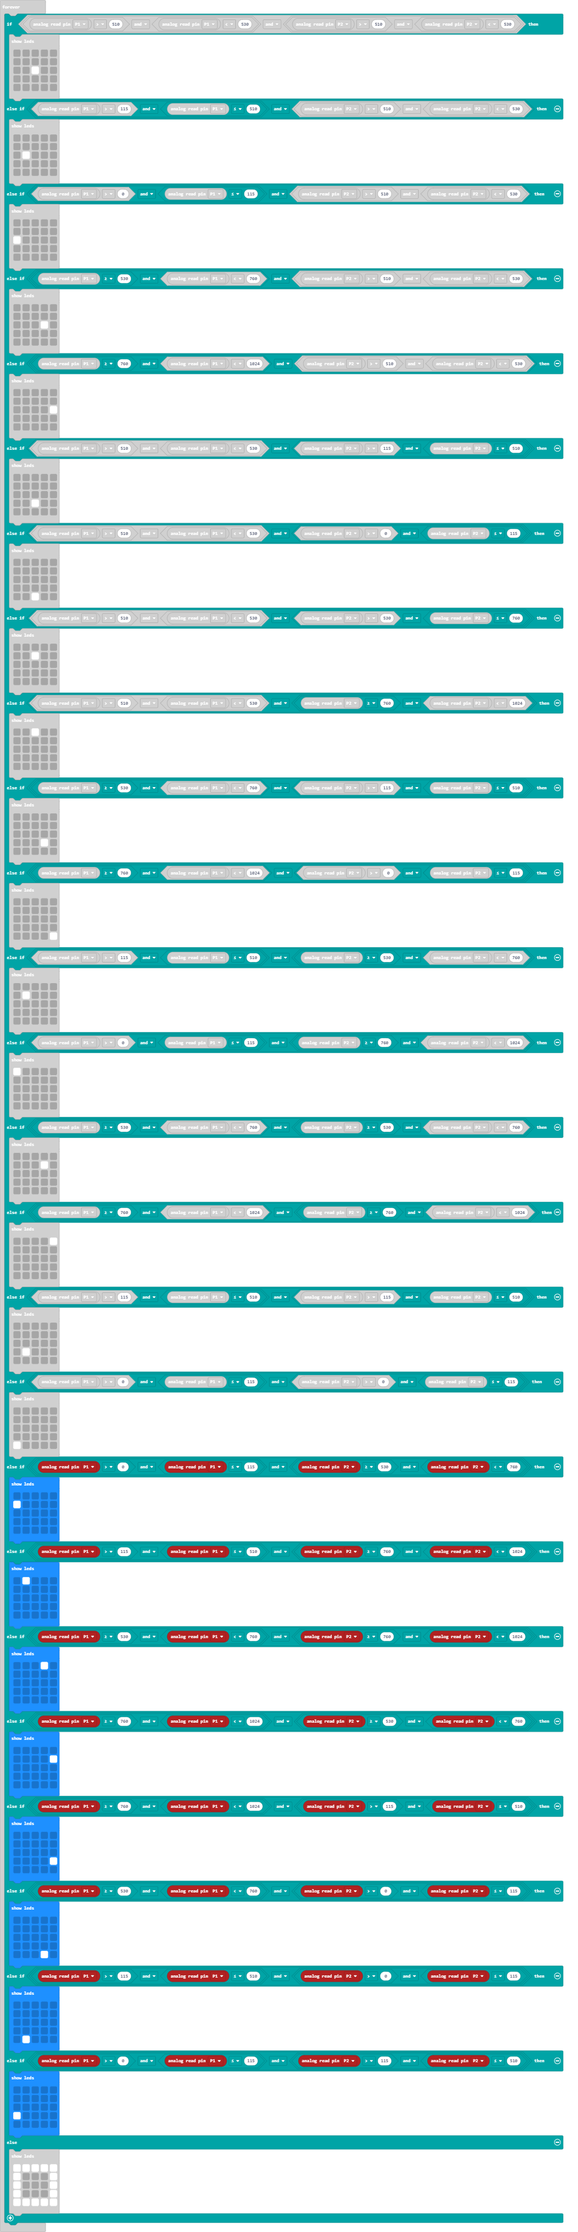
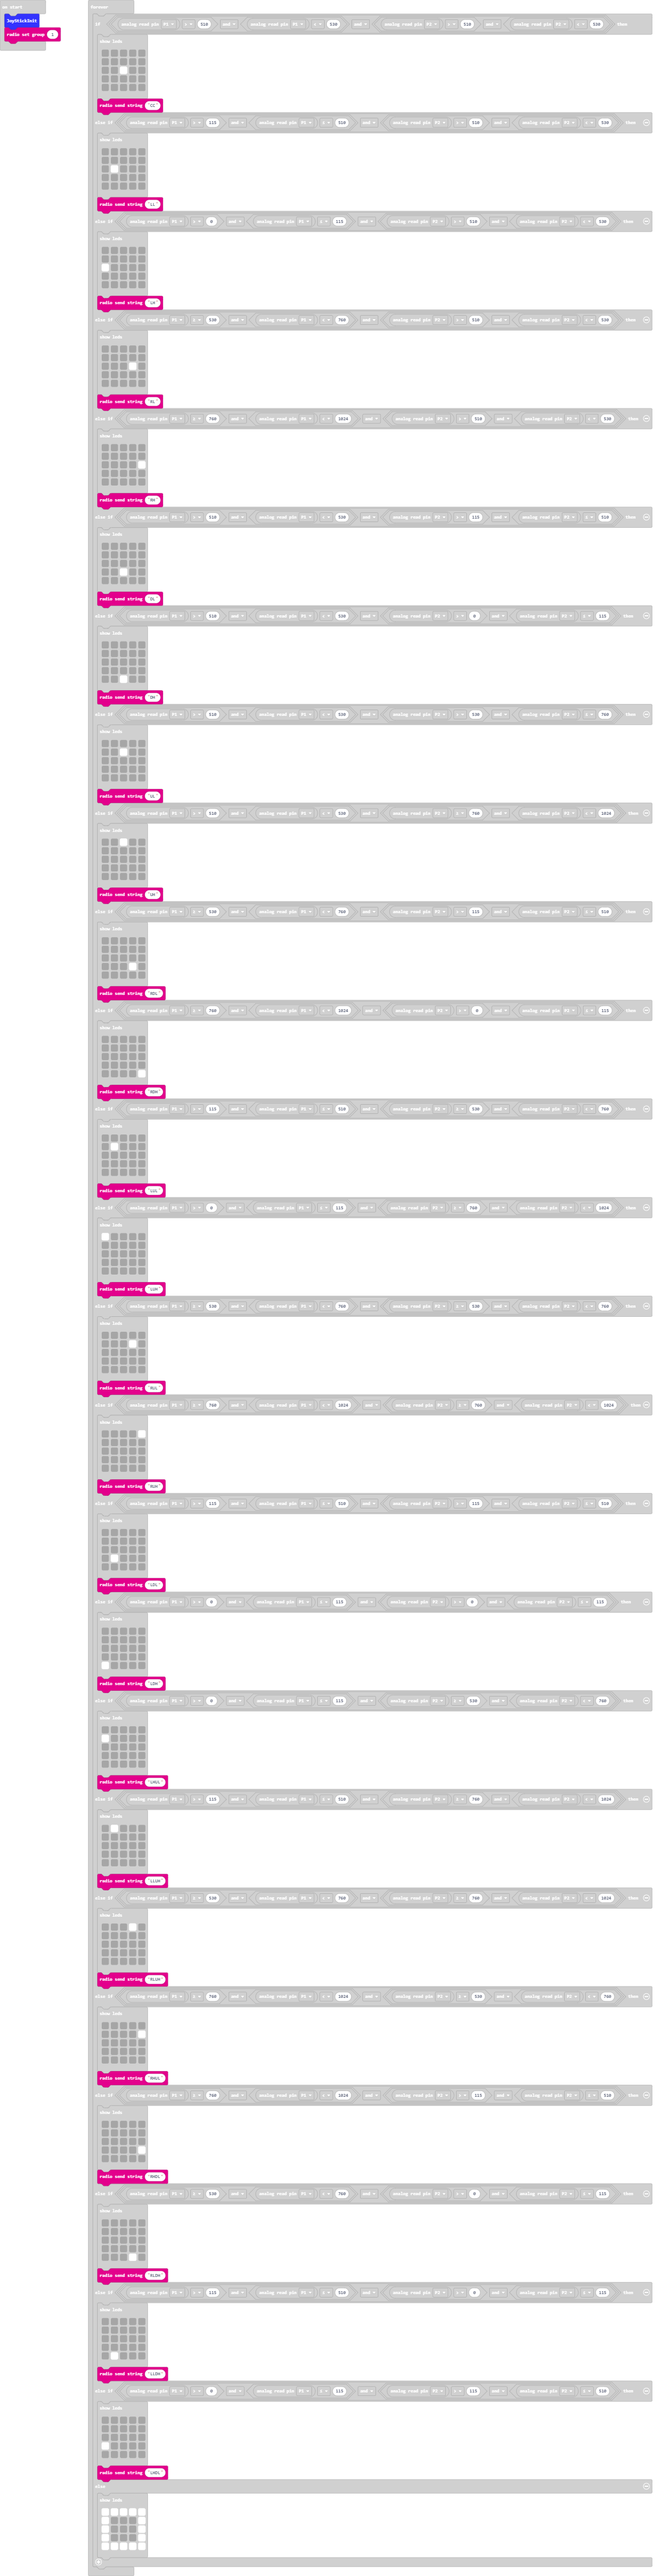
BT Joystick position messages added.

diff --git a/main.ts b/main.ts
@@ -34,6 +34,7 @@ WSJoyStick.onKey(KEY.C, function () {
     WSJoyStick.PlayMusic(262, music.beat(BeatFraction.Sixteenth))
 })
 WSJoyStick.JoyStickInit()
+radio.setGroup(1)
 basic.forever(function () {
     if (pins.analogReadPin(AnalogPin.P1) > 510 && pins.analogReadPin(AnalogPin.P1) < 530 && (pins.analogReadPin(AnalogPin.P2) > 510 && pins.analogReadPin(AnalogPin.P2) < 530)) {
         basic.showLeds(`
@@ -43,6 +44,7 @@ basic.forever(function () {
             . . . . .
             . . . . .
             `)
+        radio.sendString("CC")
     } else if (pins.analogReadPin(AnalogPin.P1) > 115 && pins.analogReadPin(AnalogPin.P1) <= 510 && (pins.analogReadPin(AnalogPin.P2) > 510 && pins.analogReadPin(AnalogPin.P2) < 530)) {
         basic.showLeds(`
             . . . . .
@@ -51,6 +53,7 @@ basic.forever(function () {
             . . . . .
             . . . . .
             `)
+        radio.sendString("LL")
     } else if (pins.analogReadPin(AnalogPin.P1) > 0 && pins.analogReadPin(AnalogPin.P1) <= 115 && (pins.analogReadPin(AnalogPin.P2) > 510 && pins.analogReadPin(AnalogPin.P2) < 530)) {
         basic.showLeds(`
             . . . . .
@@ -59,6 +62,7 @@ basic.forever(function () {
             . . . . .
             . . . . .
             `)
+        radio.sendString("LH")
     } else if (pins.analogReadPin(AnalogPin.P1) >= 530 && pins.analogReadPin(AnalogPin.P1) < 760 && (pins.analogReadPin(AnalogPin.P2) > 510 && pins.analogReadPin(AnalogPin.P2) < 530)) {
         basic.showLeds(`
             . . . . .
@@ -67,6 +71,7 @@ basic.forever(function () {
             . . . . .
             . . . . .
             `)
+        radio.sendString("RL")
     } else if (pins.analogReadPin(AnalogPin.P1) >= 760 && pins.analogReadPin(AnalogPin.P1) < 1024 && (pins.analogReadPin(AnalogPin.P2) > 510 && pins.analogReadPin(AnalogPin.P2) < 530)) {
         basic.showLeds(`
             . . . . .
@@ -75,6 +80,7 @@ basic.forever(function () {
             . . . . .
             . . . . .
             `)
+        radio.sendString("RH")
     } else if (pins.analogReadPin(AnalogPin.P1) > 510 && pins.analogReadPin(AnalogPin.P1) < 530 && (pins.analogReadPin(AnalogPin.P2) > 115 && pins.analogReadPin(AnalogPin.P2) <= 510)) {
         basic.showLeds(`
             . . . . .
@@ -83,6 +89,7 @@ basic.forever(function () {
             . . # . .
             . . . . .
             `)
+        radio.sendString("DL")
     } else if (pins.analogReadPin(AnalogPin.P1) > 510 && pins.analogReadPin(AnalogPin.P1) < 530 && (pins.analogReadPin(AnalogPin.P2) > 0 && pins.analogReadPin(AnalogPin.P2) <= 115)) {
         basic.showLeds(`
             . . . . .
@@ -91,6 +98,7 @@ basic.forever(function () {
             . . . . .
             . . # . .
             `)
+        radio.sendString("DH")
     } else if (pins.analogReadPin(AnalogPin.P1) > 510 && pins.analogReadPin(AnalogPin.P1) < 530 && (pins.analogReadPin(AnalogPin.P2) > 530 && pins.analogReadPin(AnalogPin.P2) <= 760)) {
         basic.showLeds(`
             . . . . .
@@ -99,6 +107,7 @@ basic.forever(function () {
             . . . . .
             . . . . .
             `)
+        radio.sendString("UL")
     } else if (pins.analogReadPin(AnalogPin.P1) > 510 && pins.analogReadPin(AnalogPin.P1) < 530 && (pins.analogReadPin(AnalogPin.P2) >= 760 && pins.analogReadPin(AnalogPin.P2) < 1024)) {
         basic.showLeds(`
             . . # . .
@@ -107,6 +116,7 @@ basic.forever(function () {
             . . . . .
             . . . . .
             `)
+        radio.sendString("UH")
     } else if (pins.analogReadPin(AnalogPin.P1) >= 530 && pins.analogReadPin(AnalogPin.P1) < 760 && (pins.analogReadPin(AnalogPin.P2) > 115 && pins.analogReadPin(AnalogPin.P2) <= 510)) {
         basic.showLeds(`
             . . . . .
@@ -115,6 +125,7 @@ basic.forever(function () {
             . . . # .
             . . . . .
             `)
+        radio.sendString("RDL")
     } else if (pins.analogReadPin(AnalogPin.P1) >= 760 && pins.analogReadPin(AnalogPin.P1) < 1024 && (pins.analogReadPin(AnalogPin.P2) > 0 && pins.analogReadPin(AnalogPin.P2) <= 115)) {
         basic.showLeds(`
             . . . . .
@@ -123,6 +134,7 @@ basic.forever(function () {
             . . . . .
             . . . . #
             `)
+        radio.sendString("RDH")
     } else if (pins.analogReadPin(AnalogPin.P1) > 115 && pins.analogReadPin(AnalogPin.P1) <= 510 && (pins.analogReadPin(AnalogPin.P2) >= 530 && pins.analogReadPin(AnalogPin.P2) < 760)) {
         basic.showLeds(`
             . . . . .
@@ -131,6 +143,7 @@ basic.forever(function () {
             . . . . .
             . . . . .
             `)
+        radio.sendString("LUL")
     } else if (pins.analogReadPin(AnalogPin.P1) > 0 && pins.analogReadPin(AnalogPin.P1) <= 115 && (pins.analogReadPin(AnalogPin.P2) >= 760 && pins.analogReadPin(AnalogPin.P2) < 1024)) {
         basic.showLeds(`
             # . . . .
@@ -139,6 +152,7 @@ basic.forever(function () {
             . . . . .
             . . . . .
             `)
+        radio.sendString("LUH")
     } else if (pins.analogReadPin(AnalogPin.P1) >= 530 && pins.analogReadPin(AnalogPin.P1) < 760 && (pins.analogReadPin(AnalogPin.P2) >= 530 && pins.analogReadPin(AnalogPin.P2) < 760)) {
         basic.showLeds(`
             . . . . .
@@ -147,6 +161,7 @@ basic.forever(function () {
             . . . . .
             . . . . .
             `)
+        radio.sendString("RUL")
     } else if (pins.analogReadPin(AnalogPin.P1) >= 760 && pins.analogReadPin(AnalogPin.P1) < 1024 && (pins.analogReadPin(AnalogPin.P2) >= 760 && pins.analogReadPin(AnalogPin.P2) < 1024)) {
         basic.showLeds(`
             . . . . #
@@ -155,6 +170,7 @@ basic.forever(function () {
             . . . . .
             . . . . .
             `)
+        radio.sendString("RUH")
     } else if (pins.analogReadPin(AnalogPin.P1) > 115 && pins.analogReadPin(AnalogPin.P1) <= 510 && (pins.analogReadPin(AnalogPin.P2) > 115 && pins.analogReadPin(AnalogPin.P2) <= 510)) {
         basic.showLeds(`
             . . . . .
@@ -163,6 +179,7 @@ basic.forever(function () {
             . # . . .
             . . . . .
             `)
+        radio.sendString("LDL")
     } else if (pins.analogReadPin(AnalogPin.P1) > 0 && pins.analogReadPin(AnalogPin.P1) <= 115 && (pins.analogReadPin(AnalogPin.P2) > 0 && pins.analogReadPin(AnalogPin.P2) <= 115)) {
         basic.showLeds(`
             . . . . .
@@ -171,6 +188,7 @@ basic.forever(function () {
             . . . . .
             # . . . .
             `)
+        radio.sendString("LDH")
     } else if (pins.analogReadPin(AnalogPin.P1) > 0 && pins.analogReadPin(AnalogPin.P1) <= 115 && (pins.analogReadPin(AnalogPin.P2) >= 530 && pins.analogReadPin(AnalogPin.P2) < 760)) {
         basic.showLeds(`
             . . . . .
@@ -179,6 +197,7 @@ basic.forever(function () {
             . . . . .
             . . . . .
             `)
+        radio.sendString("LHUL")
     } else if (pins.analogReadPin(AnalogPin.P1) > 115 && pins.analogReadPin(AnalogPin.P1) <= 510 && (pins.analogReadPin(AnalogPin.P2) >= 760 && pins.analogReadPin(AnalogPin.P2) < 1024)) {
         basic.showLeds(`
             . # . . .
@@ -187,6 +206,7 @@ basic.forever(function () {
             . . . . .
             . . . . .
             `)
+        radio.sendString("LLUH")
     } else if (pins.analogReadPin(AnalogPin.P1) >= 530 && pins.analogReadPin(AnalogPin.P1) < 760 && (pins.analogReadPin(AnalogPin.P2) >= 760 && pins.analogReadPin(AnalogPin.P2) < 1024)) {
         basic.showLeds(`
             . . . # .
@@ -195,6 +215,7 @@ basic.forever(function () {
             . . . . .
             . . . . .
             `)
+        radio.sendString("RLUH")
     } else if (pins.analogReadPin(AnalogPin.P1) >= 760 && pins.analogReadPin(AnalogPin.P1) < 1024 && (pins.analogReadPin(AnalogPin.P2) >= 530 && pins.analogReadPin(AnalogPin.P2) < 760)) {
         basic.showLeds(`
             . . . . .
@@ -203,6 +224,7 @@ basic.forever(function () {
             . . . . .
             . . . . .
             `)
+        radio.sendString("RHUL")
     } else if (pins.analogReadPin(AnalogPin.P1) >= 760 && pins.analogReadPin(AnalogPin.P1) < 1024 && (pins.analogReadPin(AnalogPin.P2) > 115 && pins.analogReadPin(AnalogPin.P2) <= 510)) {
         basic.showLeds(`
             . . . . .
@@ -211,6 +233,7 @@ basic.forever(function () {
             . . . . #
             . . . . .
             `)
+        radio.sendString("RHDL")
     } else if (pins.analogReadPin(AnalogPin.P1) >= 530 && pins.analogReadPin(AnalogPin.P1) < 760 && (pins.analogReadPin(AnalogPin.P2) > 0 && pins.analogReadPin(AnalogPin.P2) <= 115)) {
         basic.showLeds(`
             . . . . .
@@ -219,6 +242,7 @@ basic.forever(function () {
             . . . . .
             . . . # .
             `)
+        radio.sendString("RLDH")
     } else if (pins.analogReadPin(AnalogPin.P1) > 115 && pins.analogReadPin(AnalogPin.P1) <= 510 && (pins.analogReadPin(AnalogPin.P2) > 0 && pins.analogReadPin(AnalogPin.P2) <= 115)) {
         basic.showLeds(`
             . . . . .
@@ -227,6 +251,7 @@ basic.forever(function () {
             . . . . .
             . # . . .
             `)
+        radio.sendString("LLDH")
     } else if (pins.analogReadPin(AnalogPin.P1) > 0 && pins.analogReadPin(AnalogPin.P1) <= 115 && (pins.analogReadPin(AnalogPin.P2) > 115 && pins.analogReadPin(AnalogPin.P2) <= 510)) {
         basic.showLeds(`
             . . . . .
@@ -235,6 +260,7 @@ basic.forever(function () {
             # . . . .
             . . . . .
             `)
+        radio.sendString("LHDL")
     } else {
         basic.showLeds(`
             # # # # #
